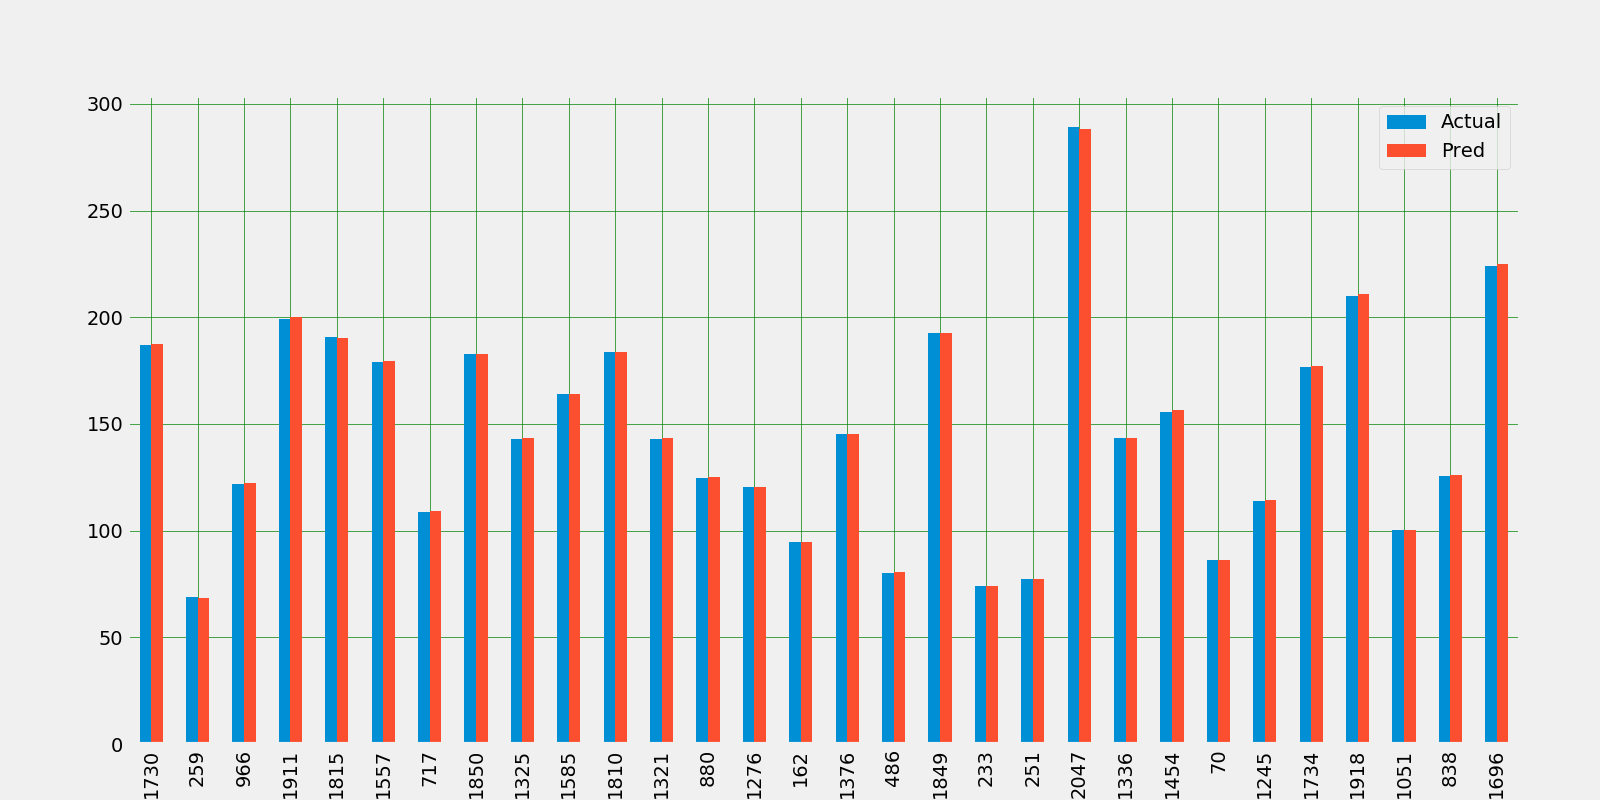
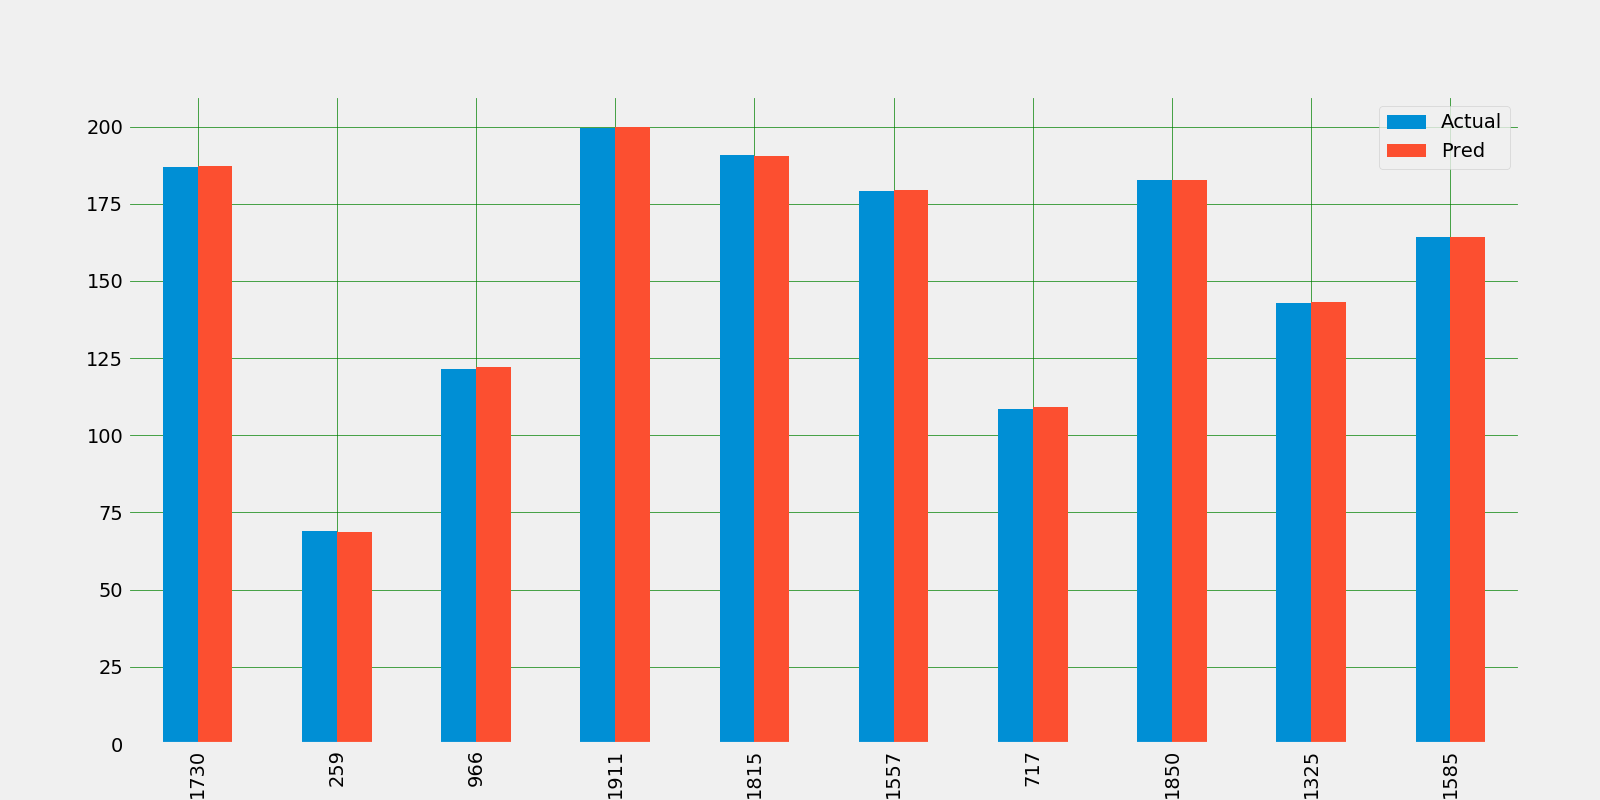
Update README.md

diff --git a/Stock_price_prediction.py b/Stock_price_prediction.py
@@ -146,7 +146,7 @@ print("Accuracy: ", results_kfold.mean()*100)
 
 # Plot Actual vs Predicted Value
 plot_df = pd.DataFrame({'Actual':y_test,'Pred':y_pred})
-plot_df.head(30).plot(kind='bar',figsize=(16,8))
+plot_df.head(10).plot(kind='bar',figsize=(16,8))
 plt.grid(which='major', linestyle='-', linewidth='0.5', color='green')
 plt.grid(which='minor', linestyle=':', linewidth='0.5', color='black')
 #plt.show()
@@ -168,7 +168,7 @@ print("Accuracy: ", results_kfold.mean()*100)
 
 # Plot Actual vs Predicted
 plot_knn_df = pd.DataFrame({'Actual':y_test,'Pred':y_knn_pred})
-plot_knn_df.head(30).plot(kind='bar',figsize=(16,8))
+plot_knn_df.head(10).plot(kind='bar',figsize=(16,8))
 plt.grid(which='major', linestyle='-', linewidth='0.5', color='green')
 plt.grid(which='minor', linestyle=':', linewidth='0.5', color='black')
 #plt.show()
@@ -182,12 +182,20 @@ svm_regressor = SVR(kernel='linear')
 svm_model = svm_regressor.fit(x_train,y_train)
 y_svm_pred = svm_model.predict(x_test)
 
+# SVM Cross-Validation
+svm_kfold = model_selection.KFold(n_splits=20, random_state=seed, shuffle=True)
+results_kfold = model_selection.cross_val_score(svm_model, x_test, y_test.astype('int'), cv=svm_kfold)
+print("Accuracy: ", results_kfold.mean()*100)
+# Accuracy: 99.91435220285842
+
 # Plot Actual vs Predicted
 plot_svm_df = pd.DataFrame({'Actual':y_test,'Pred':y_svm_pred})
-plot_svm_df.head(30).plot(kind='bar',figsize=(16,8))
+plot_svm_df.head(10).plot(kind='bar',figsize=(16,8))
 plt.grid(which ='major', linestyle='-', linewidth='0.5', color='green')
 plt.grid(which ='minor', linestyle=':', linewidth='0.5', color='black')
 #plt.show()
 plt.savefig(os.path.join(images_folder, "11_actualVSpredictedSVM.png"))
+
+
 
 

diff --git a/README.md b/README.md
@@ -101,6 +101,8 @@ Accuracy: 99.91435220285842
 
 ### SVM Support Vector Machine Regression Model
 
+Accuracy: 99.99301338392715
+
 #### Plot Actual vs Predicted Value of SVM
 ![SVM model: Actual Price vs Predicted Value](images/11_actualVSpredictedSVM.png)
 
